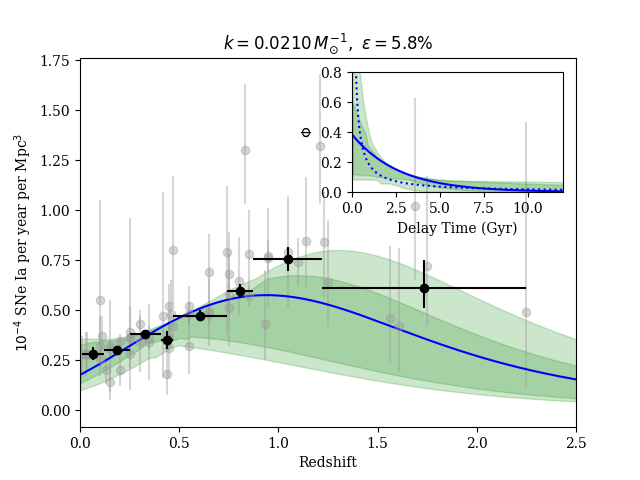
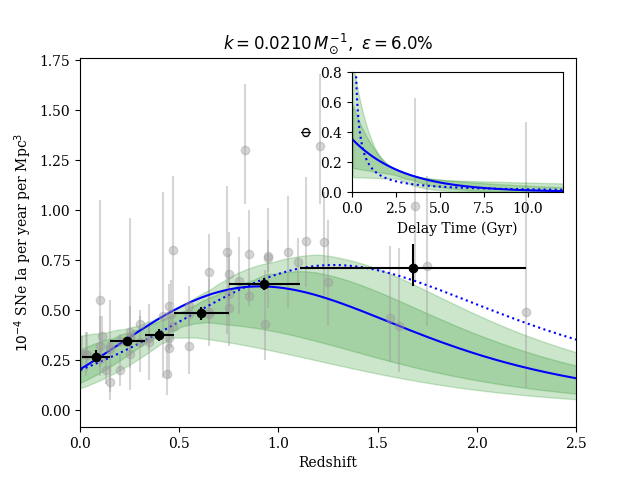
modified:   MCMC_SFD.py 	modified:   demo_dtd_sfd.py 	modified:   eval_dtdmodel.py 	modified:   figure_fit_demo_werr.png 	modified:   figure_sfd_corners.png 	modified:   plot_cMCSFD_results.py

diff --git a/analysis/scripts/eval_dtdmodel.py b/analysis/scripts/eval_dtdmodel.py
@@ -7,10 +7,11 @@ from strolger_util import cosmotools as ct
 from scipy.integrate import simps,quad
 from strolger_util import imf
 
+csfh_model = [0.0134, 2.55, 3.3, 6.1]
+
 
 def run_model(tt, *p):
     ddt = average(diff(tt))
-    csfh_model = [0.013, 2.6, 3.2, 6.1]
     sfh = rz.csfh_time(tt, *csfh_model)
     dtd = rz.dtdfunc(tt, *p[1:])
     tmp = convolve(sfh, dtd, 'full')*ddt*p[0]#*frac*scale ## now convolved result in forward time
@@ -27,11 +28,11 @@ if __name__=='__main__':
     dt = 0.05
     age=13.6
     tt = arange(dt,age,dt)
-    p_val = [0.058, -1089, 54, 202]
-    p_err = [[0.003, -0.0007],
-             [1050., -646.],
-             [15., -40.],
-             [203., -198.]
+    p_val = [0.060, -1156., 58., 220.]
+    p_err = [[0.003, -0.004],
+             [839., -596.],
+             [14., -16.],
+             [191., -186.]
              ]
 
     ## fout, (ax, ax2) = plt.subplots(1,2, gridspec_kw = {'width_ratios':[3, 1]})
@@ -91,7 +92,7 @@ if __name__=='__main__':
     rates = loadtxt('SNeIa_rates.txt')
     rates[:,1:] = rates[:,1:]#*1.0e-4 ## put on the right scale
     rates = rates[:,:4]
-    brates = u.gimme_rebinned_data(rates,splits=arange(0,1.125,0.125).tolist())
+    brates = u.gimme_rebinned_data(rates,splits=arange(0,1.167,0.167).tolist())
     scale_k = quad(imf.salpeter,3,8)[0]/quad(imf.salpeter1,0.1,125)[0]
     scale = scale_k * 0.7**2.*1e4## factors of h...
     lbt = age - tta
@@ -121,6 +122,13 @@ if __name__=='__main__':
     upper = percentile(ysample, 97.5, axis=0)
     ax.fill_between(zz, upper, lower, color='green', alpha=0.2)
 
+
+    pwrl = (-1.0,1.0)
+    dud = rz.powerdtd(tta, *pwrl)
+    jdud = convolve(rz.csfh_time(tta, *csfh_model), dud, 'full')*average(diff(tta))*frac*scale
+    jdud = jdud[:len(dud)]
+    ax.plot(zz, jdud, 'b:')
+    ## pdb.set_trace()
 
     ax.set_xlim(0,2.5)
 

diff --git a/analysis/scripts/plot_cMCSFD_results.py b/analysis/scripts/plot_cMCSFD_results.py
@@ -18,7 +18,7 @@ if __name__=='__main__':
     tot = 0
     for file in files:
         samples = pickle.load(open(file,'rb'))
-        samples = samples[:,100:,:].reshape((-1,5))
+        samples = samples[:,50:,:].reshape((-1,5))
         print('adding %d samples from %s... '%(len(samples), file))
         try:
             temp = concatenate((temp, samples), axis=0)
@@ -77,8 +77,8 @@ if __name__=='__main__':
                          truth={r'$\varepsilon$':ff_mcmc[0], 
                                 r'$\xi$': m_mcmc[0], r'$\omega$': 65., r'$\alpha$': k_mcmc[0],
                                 r'$\log f$':md3},
-                         extents = [[-0.2, 0.4], [-1900.,-200.0], [10., 90], [50., 500],[-4.2,0]]
-                         ## extents = [[-0.2, 0.4], [-1900.,200.0], [-0.1, 90], [-200., 500],[-4.2,0.1]]
+                         ## extents = [[-0.2, 0.4], [-1900.,-200.0], [10., 90], [50., 500],[-4.2,0]]
+                         extents = [[-0.2, 0.4], [-1900.,200.0], [-0.1, 90], [-200., 500],[-4.2,0.1]]
                          )
     fig.set_size_inches(4.5 + fig.get_size_inches())
     savefig('figure_sfd_corners.png')

diff --git a/analysis/scripts/MCMC_SFD.py b/analysis/scripts/MCMC_SFD.py
@@ -66,7 +66,7 @@ if __name__=='__main__':
     rates[:,1:] = rates[:,1:]#*1.0e-4 ## put on the right scale
     rates = rates[:,:4]
     brates = u.gimme_rebinned_data(rates,verbose=False,splits=arange(0,1.167,0.167).tolist())
-    data = deepcopy(brates)
+    data = deepcopy(rates)
     tt = 13.6-array([ct.cosmotime(x) for x in data[:,0]])
     data[:,0] = tt
     data = data[argsort(data[:,0])]
@@ -74,11 +74,11 @@ if __name__=='__main__':
     import time
     import multiprocessing as mpc
     ncore = mpc.cpu_count()
-    ndim, nwalkers, nsteps = 5, 1000, 2000
+    ndim, nwalkers, nsteps = 5, 100, 20000
     step_size = 1.0
     ## p0 = (0.05, 3.5, 2.5, 2.5, 0.01)
-    p0 = (0.06, -100., 50, 20, -2.5)
-
+    ## p0 = (0.06, -100., 50, 20, -2.5)
+    p0 = (0.06, -1200, 70, 20, -2.5)
 
     mckaps = glob.glob('mc_sfd_*.pkl')
     if mckaps:

diff --git a/analysis/scripts/demo_dtd_sfd.py b/analysis/scripts/demo_dtd_sfd.py
@@ -19,7 +19,7 @@ def plot_one(rates,plotname,*p, frac=0.05, age=13.6):
     lbt = age - tt
     zz = [ct.cosmoz(x) for x in lbt]
 
-    par_model = [0.013, 2.6, 3.2, 6.1]
+    par_model = [0.0134, 2.55, 3.3, 6.1]
     sfh = rz.csfh_time(tt, *par_model)
     dtd = rz.dtdfunc(tt, *p)
     pwrl = (-1.0,1.0)
